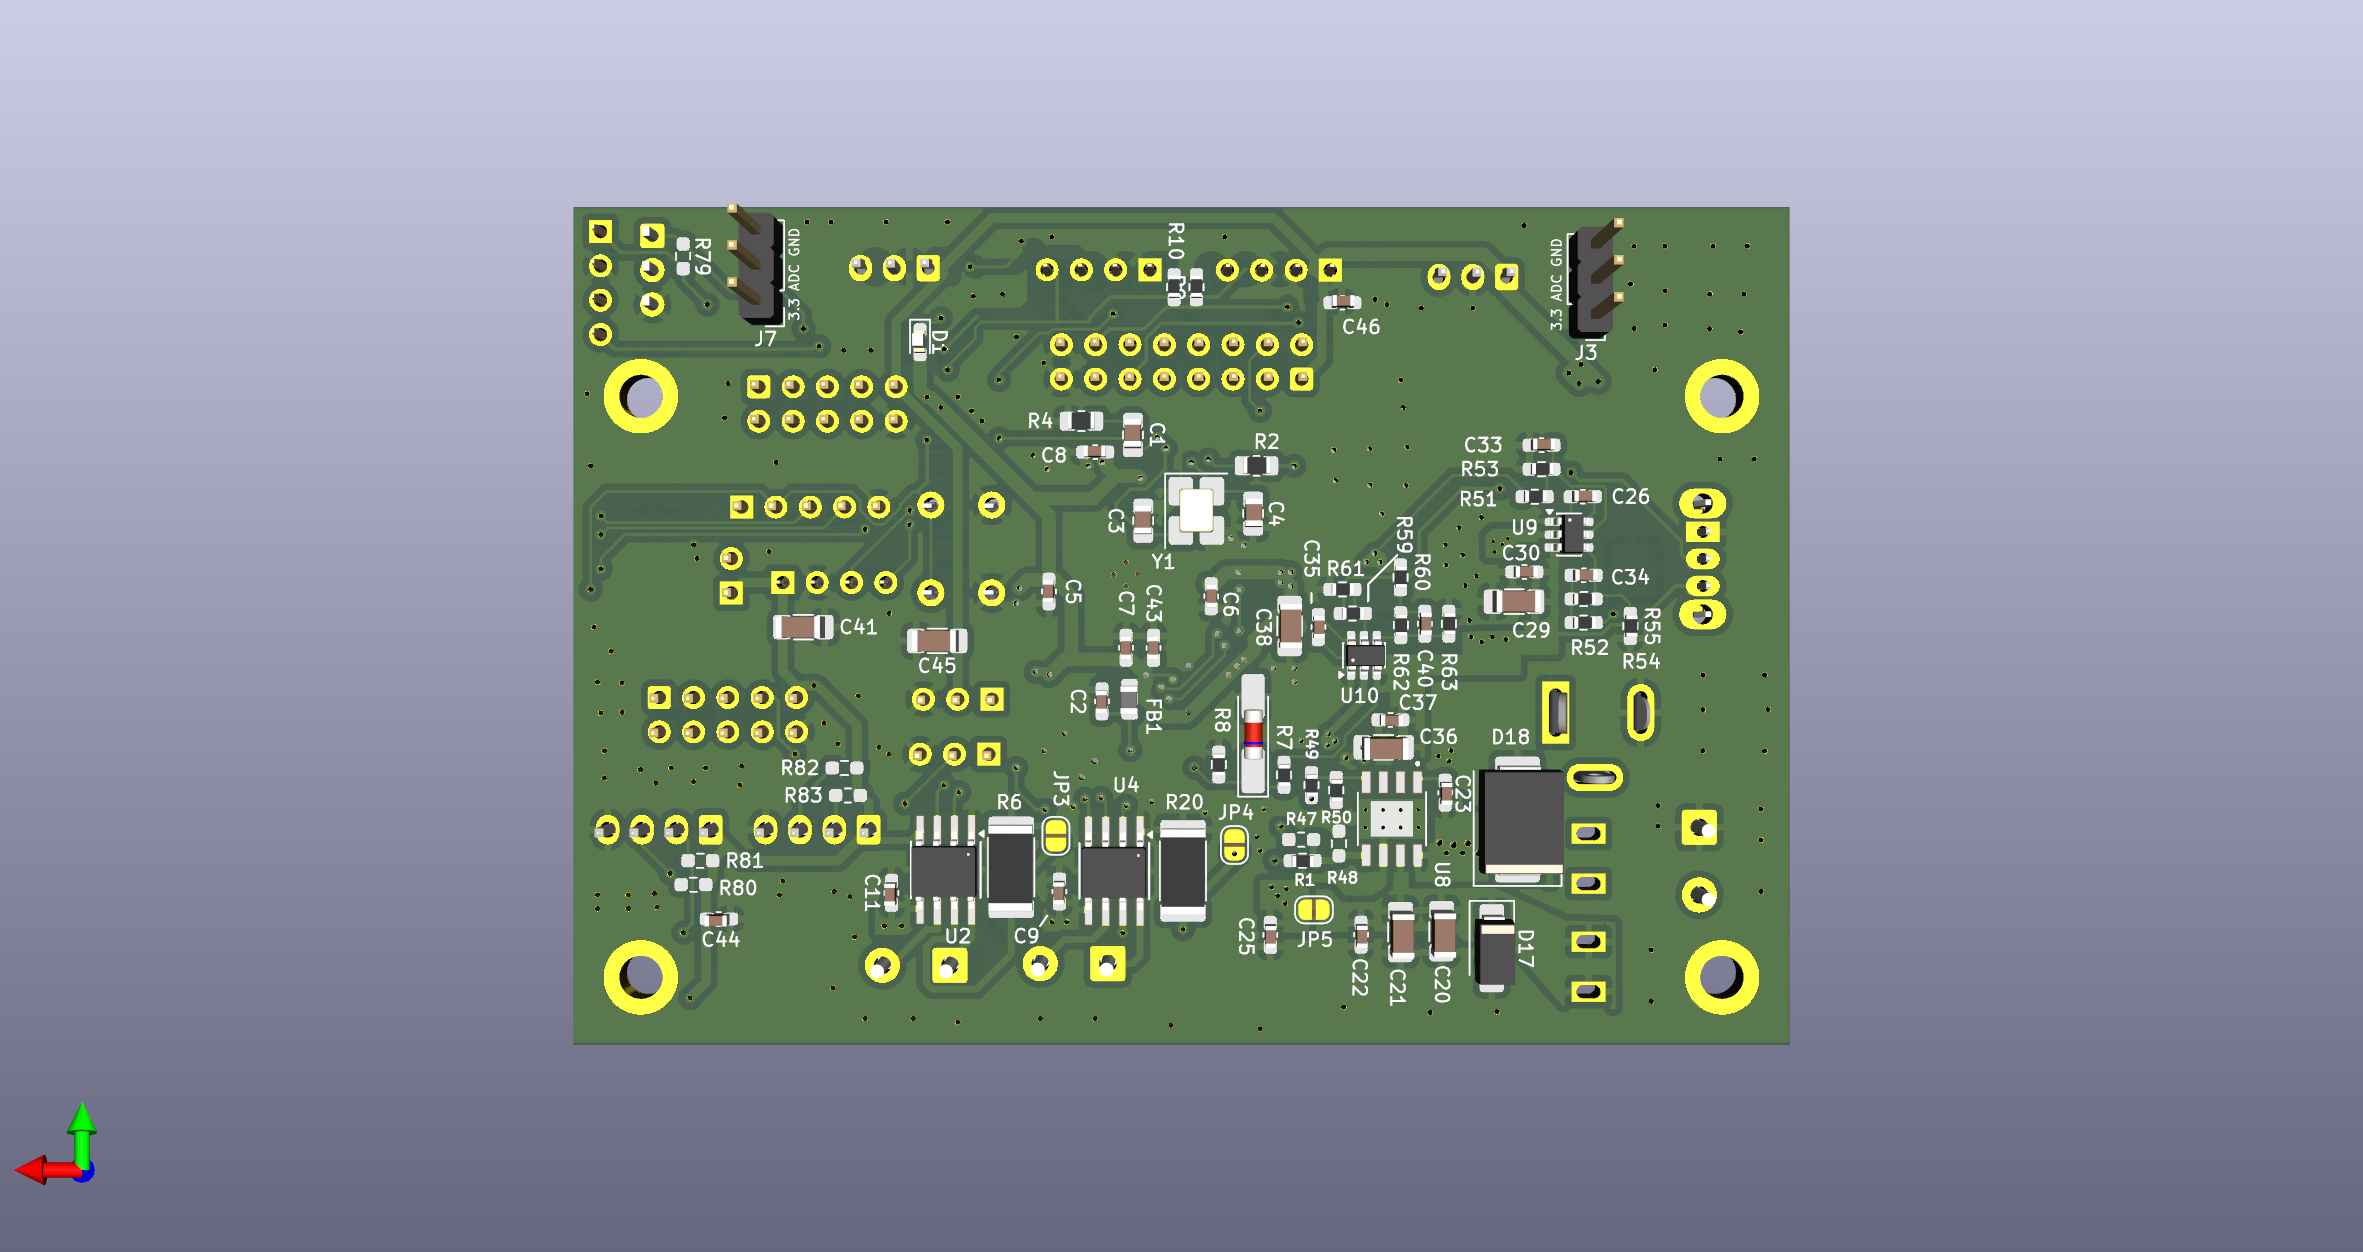
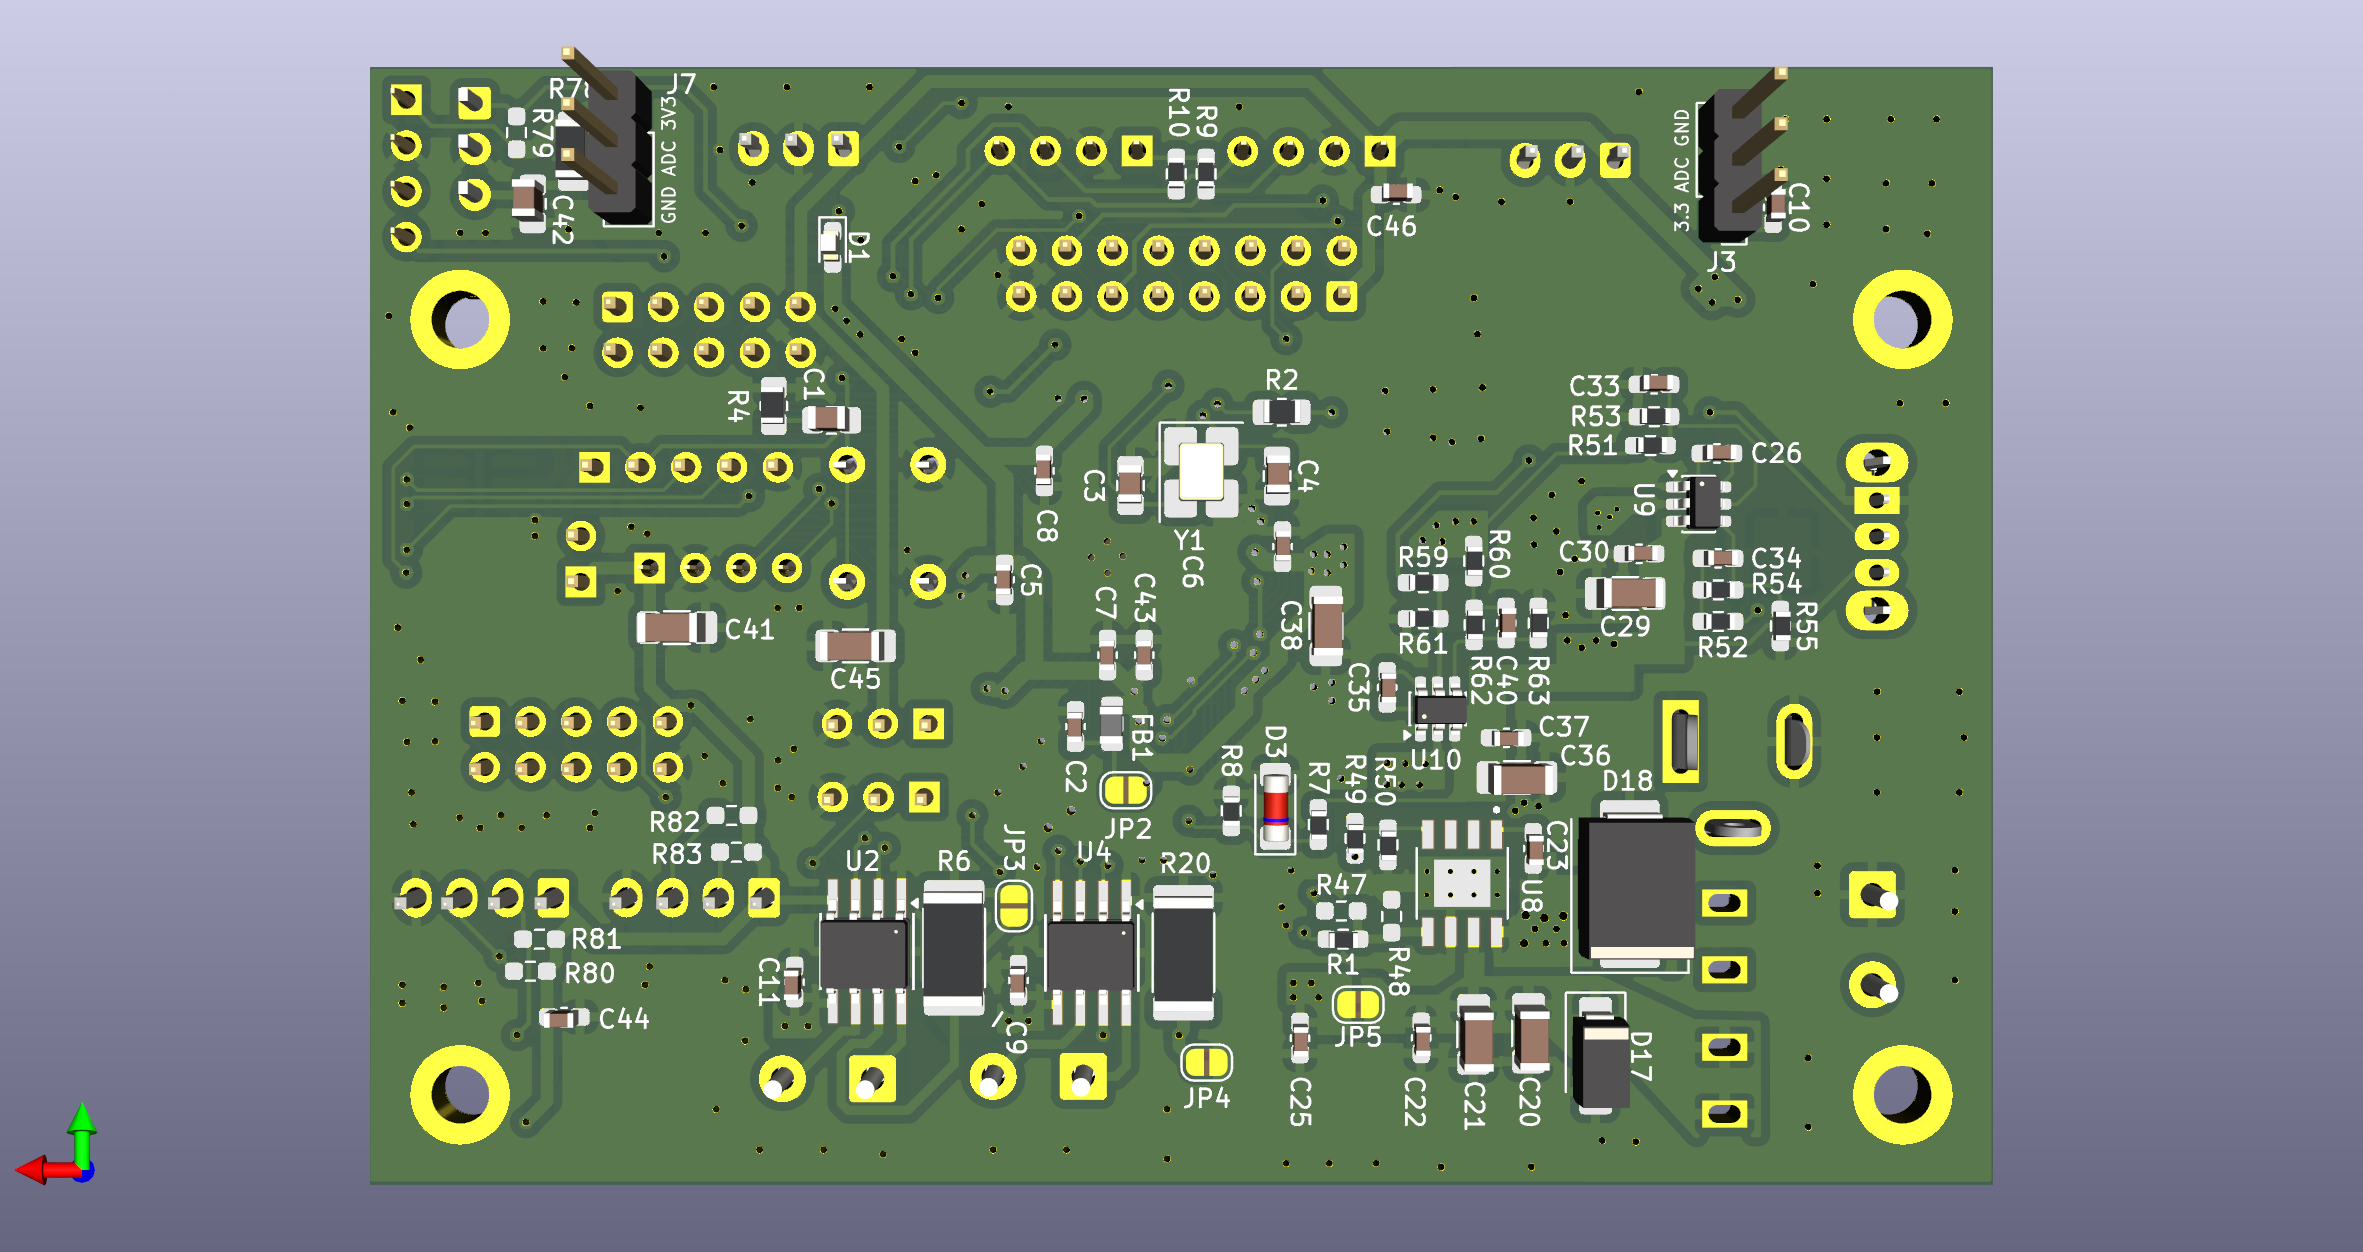
update photos and readme.md

diff --git a/README.md b/README.md
@@ -6,6 +6,7 @@
 
 ## Main functionality
 
+- high range of power suply voltage (recommended: 9-12V PSU or 2S-3S Li-Po)
 - STM32G431
 - IR receiver
 - power lines: 3V3, 5V, 6V5 with step-down converters.
@@ -15,7 +16,7 @@
 - 2x encoder connector
 - 2x H-bridge (3.6A each)
 - 2x 10pin IDC connector
-- 1x 16pin IDC connector (for IR distance sensor)
+- 1x 16pin IDC connector [for IR distance sensor](https://github.com/Bartosz-Woj/Modulated_infrared_distance_sensor)
 - connector for IR sumo [robot start module](https://p1r.se/startmodule/)
 
 ## Program uploading and debugging
@@ -40,10 +41,12 @@ In the folder /software there are example projects made in STM32CubeIDE which ca
 
 ## Usage in mobile robot projects
 
-on going
+- [Low cost mini sumo robot](https://github.com/Bartosz-Woj/Mini-sumo-robot)
 
 ## Photos
 
+- **Schematic:**  
+  ![Schematic](./photos/Schematic.png)
 - **PCB top side:**  
   ![PCB top side](./photos/PCB_top.png)
 - **PCB bottom side:**  
@@ -68,3 +71,8 @@ on going
 
 Licensed under the **CERN Open Hardware License v2 – Permissive (CERN-OHL-P)**  
 You are free to **use, modify, and redistribute** this project, provided that you **credit the original author**.
+
+## Changelog
+
+- V1 - initial release
+- V2 - minor improvments: modified U3 footprint, rotated J7, updated routing (microcontroller, power section)
